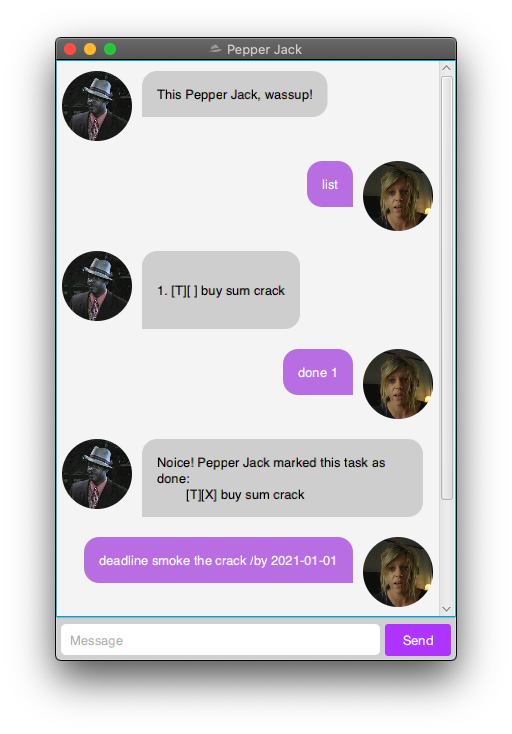
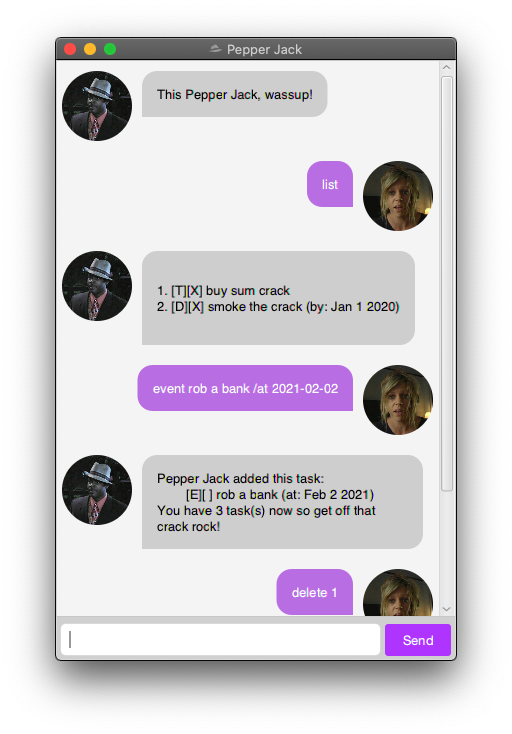
Add User Guide and change Ui.png

Changed region(s): [[0.0938, 0.3297, 0.8438, 0.8392], [0.125, 0.8392, 0.25, 0.8992], [0.875, 0.6594, 0.9062, 0.6894]]

diff --git a/docs/README.md b/docs/README.md
@@ -1,29 +1,138 @@
 # User Guide
 
-## Features 
+Duke (Pepper Jack) is a **Personal Assistant Chatbot** that helps a person keep track of their tasks. 
+The name and personality of Pepper Jack was chosen in honor of *[Pepper Jack the pimp](https://itsalwayssunny.fandom.com/wiki/Pimp)*, 
+the best side character on the best show on television, *It's Always Sunny in Philadelphia*.
 
-### Feature-ABC
+* [Quick start](#quickstart)
+* [Features](#features)
+    * [Viewing help: `help`](#viewing-help-help)
+    * [Listing all tasks: `list`](#listing-all-tasks-list)
+    * [Adding a Todo task: `todo`](#adding-a-todo-task-todo)
+    * [Adding a Deadline task: `deadline`](#adding-a-deadline-task-deadline)
+    * [Adding a Event task: `event`](#adding-a-event-task-event)
+    * [Marking a task as done: `done`](#marking-a-task-as-done-done)    
+    * [Deleting a task: `delete`](#deleting-a-task-delete)
+    * [Finding a task: `find`](#finding-a-task-find)
+    * [Exiting the program: `bye`](#exiting-the-program-bye)
+    * [Saving the data](#saving-the-data)
+    * [Editing the data file](#editing-the-data-file)
+* [Command summary](#command-summary)
 
-Description of the feature.
+---
+## Quick start
 
-### Feature-XYZ
+1. Ensure you have Java 11 or above installed in your Computer.
+   
 
-Description of the feature.
+2. Download the latest duke.jar from [here](https://github.com/chaiwanlin/ip/releases).
 
-## Usage
 
-### `Keyword` - Describe action
+3. Copy the file to the folder you want to use as the home folder for Duke.
 
-Describe the action and its outcome.
 
-Example of usage: 
+4. Double-click the file to start the app. The GUI similar to the below should appear in a few seconds.
+![Image of Ui](https://chaiwanlin.github.io/ip/Ui.png)
 
-`keyword (optional arguments)`
 
-Expected outcome:
+5. Type the command in the command box and press Enter to execute it. 
+   e.g. typing help and pressing Enter will open the help window.
+Some example commands you can try:
 
-Description of the outcome.
+    * `list` : Lists all tasks.
+    * `todo buy groceries` : Adds a Todo task with description `buy groceries`.
+    * `delete 1` : Deletes the 1st task in the current list
+    * `bye` : Exits the app.
 
-```
-expected output
-```
+
+6. Refer to the [Features](#features) below for details of each command.
+
+---
+## Features
+
+> Notes about the command format:
+> * Words in `UPPER_CASE` are the parameters to be supplied by the user.
+    e.g. in `todo DESCRIPTION`, `DESCRIPTION` is a parameter that can be used as `todo buy groceries`.
+> * Items in square brackets are optional.
+    e.g `find [KEYWORD]...` can be used as `find crack` or `find`.
+> * Items with … after them can be used multiple times including zero times.
+    e.g. `find [KEYWORD]...` can be used as `find` (i.e. 0 times), `find crack`, `find buy crack`.
+> * Extraneous parameters for commands that do not take in parameters (such as help, list and bye) will be ignored.
+    e.g. if the command specifies `help 123`, it will be interpreted as `help`.
+
+### Viewing help: `help`
+Shows a message with the full list of commands and their usages.
+
+Format: `help`
+
+
+### Listing all tasks: `list`
+Shows a list of all the tasks saved.
+
+Format: `list`
+
+
+### Adding a Todo task: `todo`
+Adds a Todo task.
+
+Format: `todo DESCRIPTION`
+
+
+### Adding a Deadline task: `deadline`
+Adds a Deadline task.
+
+Format: `dealine DESCRIPTION \by YYYY-MM-DD`
+
+
+### Adding a Event task: `event`
+Adds a Event task.
+
+Format: `event DESCRIPTION \at YYYY-MM-DD`
+
+
+### Marking a task as done: `done`
+Marks a task as done.
+
+Format: `done INDEX`
+
+
+### Deleting a task: `delete`
+Deletes a task from your list.
+
+Format: `delete INDEX`
+
+
+### Finding a task: `find`
+Finds an existing task.
+
+Format: `find [KEYWORD]...`
+
+
+### Exiting the program: `bye`
+Exits the program.
+
+Format: `bye`
+
+
+### Saving the data
+Duke data are saved in the hard disk after the program exits. 
+There is no need to save manually.
+
+
+### Editing the data file
+Duke data are saved as a JSON file [JAR file location]/data/tasks.txt.
+Advanced users are welcome to update data directly by editing that data file.
+
+---
+## Command summary
+| Action | Format | Examples     |
+| :--- | :---- | :--- |
+| Add Todo task | `todo DESCRIPTION`       | `todo buy crack` |
+| Add Deadline task | `deadline DESCRIPTION /by YYYY-MM-DD` | `deadline smoke crack /by 2020-01-01` |
+| Add Event task | `event DESCRIPTION /at YYYY-MM-DD` | `event crack convention /at 2020-01-01` |
+| Mark task as done | `done INDEX` | `done 1` |
+| Delete task | `delete INDEX` | `delete 1` |
+| Find task | `find [KEYWORD]...` | `find crack` |
+| List tasks | `list` | `list` |
+| Help | `help` | `help` |
+| Exit | `bye` | `bye` |
